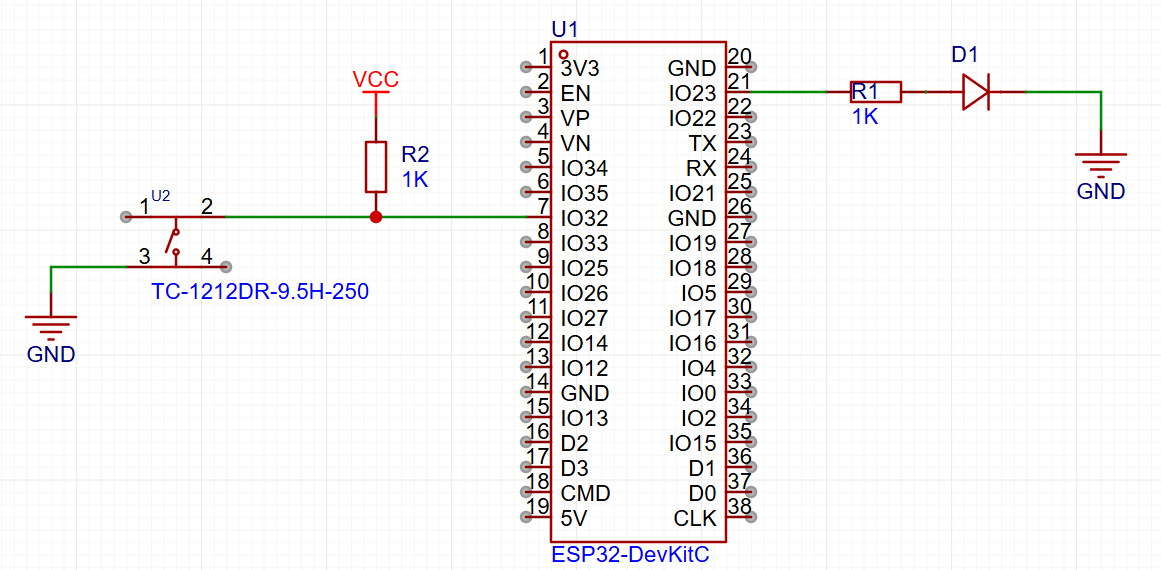
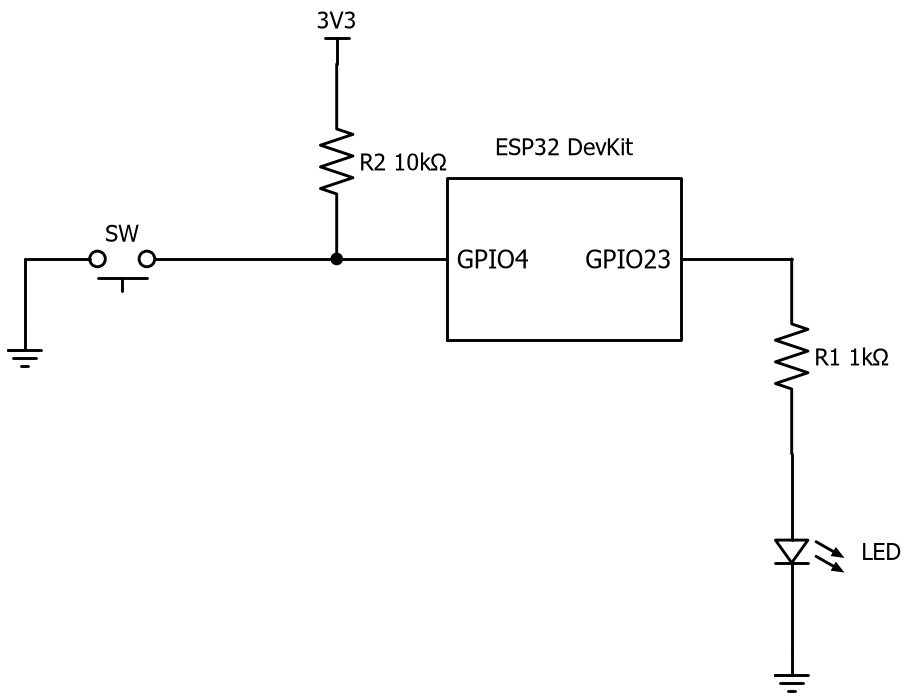
Lab 1: add the GoGo CM sheet; same pins on Wokwi and breadboard
- New "1 MCU CM board.md": the Lab 1 exercises on the GoGo Command Module
  (ESP32-S3), plus how ESP32 and ESP32-S3 differ (USB, board settings,
  GPIO6-11 flash pins, strapping pins, DAC, Bluetooth). Exercises that
  need wiring become schematic-reading questions on the CM's fixed parts.
- Wokwi and breadboard sheets: button moved from GPIO32 to GPIO4, so
  Wokwi, breadboard and CM share the button pin; LED stays on GPIO23
  (the CM's LED is on IO6, which the ESP32 cannot use).
- Breadboard sheet: pull-up stated as 10K (matches the schematics),
  "tinkerCAD" -> Arduino IDE, "ขา 23ของ Arduino" -> GPIO23 of the ESP32.
- Wokwi sheet: notes under the two screenshots that still show GPIO32;
  submission list renumbered.
- Schematics 04/07/08 and the two CM schematics are generated by
  tools/lab1_schematics.py as placeholders until redrawn in EasyEDA.

Changed region(s): [[0.0, 0.0, 1.0, 1.0]]

diff --git a/tools/lab1_schematics.py b/tools/lab1_schematics.py
@@ -1,0 +1,123 @@
+"""Generate the Lab 1 schematics (placeholders until redrawn in EasyEDA).
+
+Shared pins (decided 18 Nov 2026): kit ESP32 and Wokwi use LED = GPIO23, button = GPIO4.
+The GoGo CM (ESP32-S3) has its LED on IO6 and the big button (U6) on IO4, with R22 5.1k + C11 100nF.
+
+    python tools/lab1_schematics.py      # writes images/lab1-*.png
+"""
+import os
+import matplotlib
+matplotlib.use("Agg")
+import schemdraw
+import schemdraw.elements as elm
+
+OUT = os.path.join(os.path.dirname(__file__), "..", "images")
+schemdraw.config(fontsize=13, lw=1.6, font="Tahoma")  # Tahoma has Thai glyphs
+
+
+def esp32(d, pins, label="ESP32 DevKit", at=None, right=()):
+    """A box with the named GPIO pins (left side unless listed in `right`); returns the element."""
+    ic = elm.Ic(pins=[elm.IcPin(name=p, side="right" if p in right else "left") for p in pins],
+                edgepadW=1.6, pinspacing=1.6,
+                label=label, lblofst=0.3, lblloc="top")
+    return d.add(ic.at(at) if at is not None else ic)
+
+
+def save(d, name):
+    path = os.path.join(OUT, name)
+    d.save(path, dpi=130)
+    print("wrote", os.path.normpath(path))
+
+
+def button_circuit(d, start, r_pull, label_pull, series=None, cap=None, analyzer=False, extra=""):
+    """Pull-up button circuit ending at `start` (the GPIO pin), drawn to the left."""
+    d.move_from(start)
+    line = d.add(elm.Line().left(1.2))
+    node = line.end
+    d.add(elm.Dot())
+    # pull-up to 3V3
+    d.push()
+    d.add(elm.Resistor().up().label(label_pull, loc="bottom"))
+    d.add(elm.Vdd().label("3V3"))
+    d.pop()
+    if cap:
+        d.push()
+        d.add(elm.Line().left(1.8))
+        d.add(elm.Dot())
+        d.push()
+        d.add(elm.Capacitor().down().label(cap, loc="bottom"))
+        d.add(elm.Ground())
+        d.pop()
+        if series:
+            d.add(elm.Resistor().left().label(series))
+        d.add(elm.Button().left().label("SW"))
+        d.add(elm.Line().down(1.0))
+        d.add(elm.Ground())
+        d.pop()
+    else:
+        d.push()
+        d.add(elm.Line().left(1.8))
+        if series:
+            d.add(elm.Resistor().left().label(series))
+        d.add(elm.Button().left().label("SW"))
+        d.add(elm.Line().down(1.0))
+        d.add(elm.Ground())
+        d.pop()
+    if analyzer:
+        d.push()
+        d.add(elm.Line().down(2.4))
+        d.add(elm.Dot(open=True).label("Logic Analyzer CH0\n(GND ต่อร่วมกับวงจร)", loc="bottom"))
+        d.pop()
+    return node
+
+
+# --- Breadboard sheet ---------------------------------------------------------------
+with schemdraw.Drawing(show=False) as d:   # 04: button on GPIO4 (10k pull-up) + LED on GPIO23
+    ic = esp32(d, ["GPIO4", "GPIO23"], right=("GPIO23",))
+    button_circuit(d, ic.GPIO4, "R2\n10kΩ", "R2 10kΩ")
+    d.move_from(ic.GPIO23)
+    d.add(elm.Line().right(1.2))
+    d.add(elm.Resistor().down().label("R1 1kΩ", loc="bottom"))
+    d.add(elm.LED().down().label("LED", loc="bottom"))
+    d.add(elm.Ground())
+    save(d, "lab1-breadboard-04.png")
+
+with schemdraw.Drawing(show=False) as d:   # 07: logic analyzer on the button pin
+    ic = esp32(d, ["GPIO4"])
+    button_circuit(d, ic.GPIO4, "R2\n10kΩ", "R2 10kΩ", analyzer=True)
+    save(d, "lab1-breadboard-07.png")
+
+with schemdraw.Drawing(show=False) as d:   # 08: RC debounce (33k series + 100nF) on the button pin
+    ic = esp32(d, ["GPIO4"])
+    button_circuit(d, ic.GPIO4, "R2\n10kΩ", "R2 10kΩ", series="R3 33kΩ", cap="C1\n100nF", analyzer=True)
+    save(d, "lab1-breadboard-08.png")
+
+# --- CM sheet (on-board parts, from the EasyEDA netlist) ---------------------------
+with schemdraw.Drawing(show=False) as d:   # CM LED: IO6 -> R23 1k -> LED2 (red) -> GND
+    ic = esp32(d, ["IO6"], label="ESP32-S3 (บอร์ด CM)")
+    d.move_from(ic.IO6)
+    d.add(elm.Line().left(1.2))
+    d.add(elm.Resistor().down().label("R23 1kΩ", loc="bottom"))
+    d.add(elm.LED().down().label("LED2 (แดง)", loc="bottom"))
+    d.add(elm.Ground())
+    save(d, "lab1-cm-led.png")
+
+with schemdraw.Drawing(show=False) as d:   # CM button: R22 5.1k pull-up, C11 100nF to GND, U6 to GND, IO4
+    ic = esp32(d, ["IO4"], label="ESP32-S3 (บอร์ด CM)")
+    d.move_from(ic.IO4)
+    d.add(elm.Line().left(1.2))
+    d.add(elm.Dot())
+    d.push()
+    d.add(elm.Resistor().up().label("R22 5.1kΩ", loc="bottom"))
+    d.add(elm.Vdd().label("3V3"))
+    d.pop()
+    d.add(elm.Line().left(1.8))
+    d.add(elm.Dot())
+    d.push()
+    d.add(elm.Capacitor().down().label("C11\n100nF", loc="bottom"))
+    d.add(elm.Ground())
+    d.pop()
+    d.add(elm.Line().left(3.2))
+    d.add(elm.Button().down().label("U6\n(ปุ่มใหญ่)", loc="top", ofst=0.4))
+    d.add(elm.Ground())
+    save(d, "lab1-cm-button.png")

diff --git a/1 MCU CM board.md b/1 MCU CM board.md
@@ -1,0 +1,202 @@
+# LAB 1 - การใช้งาน Microcontroller เบื้องต้นบนบอร์ด GoGo Command Module (CM)
+
+- [บอร์ด CM ต่างจาก ESP32 ในชุด Lab อย่างไร](#บอร์ด-cm-ต่างจาก-esp32-ในชุด-lab-อย่างไร)
+  - [ESP32 กับ ESP32-S3](#esp32-กับ-esp32-s3)
+  - [ขาที่ใช้ในแต่ละแพลตฟอร์ม](#ขาที่ใช้ในแต่ละแพลตฟอร์ม)
+- [สิ่งที่ควรจะได้](#สิ่งที่ควรจะได้)
+- [การเตรียมบอร์ด CM](#การเตรียมบอร์ด-cm)
+- [LAB 1.1 — Hello World](#lab-11--hello-world)
+- [LAB 1.2 — ไฟกระพริบ](#lab-12--ไฟกระพริบ)
+- [LAB 1.3 — ควบคุมการทำงานของไฟด้วยปุ่มกด](#lab-13--ควบคุมการทำงานของไฟด้วยปุ่มกด)
+  - [1.3.1 ใช้ปุ่มควบคุม LED แบบกดติด ปล่อยดับ](#131-ใช้ปุ่มควบคุม-led-แบบกดติด-ปล่อยดับ)
+  - [1.3.2 นับจำนวนครั้งที่กดปุ่ม](#132-นับจำนวนครั้งที่กดปุ่ม)
+  - [1.3.3 Bounce และวงจร Debounce บนบอร์ด](#133-bounce-และวงจร-debounce-บนบอร์ด)
+- [ประเมินตนเอง](#ประเมินตนเอง)
+- [สิ่งที่ต้องส่ง](#สิ่งที่ต้องส่ง)
+
+ชีทนี้ทำกิจกรรมเดียวกับ [LAB 1 บน Breadboard](1%20MCU%20breadboard%20circuit.md) แต่ใช้บอร์ด GoGo Command Module (CM) ซึ่งมี LED และปุ่มกดติดตั้งอยู่บนบอร์ดแล้ว
+
+บอร์ด CM ใช้ชิป **ESP32-S3** ซึ่งเป็นคนละรุ่นกับ **ESP32** ในชุด Lab และในโครงงาน Final Project
+จุดประสงค์ของชีทนี้จึงไม่ใช่แค่ทำ Lab ให้ได้ผลเหมือนกัน แต่ให้เห็นว่า **Microcontroller ต่างรุ่นกัน แม้จะชื่อคล้ายกัน ก็มีรายละเอียดที่ต่างกัน** และต้องตรวจสอบทุกครั้งที่เปลี่ยนชิปหรือเปลี่ยนบอร์ด
+
+<!-- ภาพบอร์ด CM: รอภาพถ่ายจากผู้สอน ระบุตำแหน่ง LED2 (แดง), ปุ่มใหญ่ U6, ปุ่ม BOOT U4, สวิตช์ Power SW1 และช่อง USB-C -->
+
+## บอร์ด CM ต่างจาก ESP32 ในชุด Lab อย่างไร
+
+### ESP32 กับ ESP32-S3
+
+| | ESP32 (ชุด Lab, Wokwi, Final Project) | ESP32-S3 (บอร์ด CM) |
+|---|---|---|
+| การต่อ USB | ผ่านชิป USB-to-Serial บนบอร์ด (เช่น CP210x หรือ CH340) ต้องติดตั้ง Driver | ชิปมี USB ในตัว (Native USB) ไม่ต้องติดตั้ง Driver |
+| เลือกบอร์ดใน Arduino IDE | ESP32 Dev Module | ESP32S3 Dev Module |
+| Serial Monitor | ใช้ได้ทันที | ต้องตั้ง USB CDC On Boot เป็น Enabled |
+| ขาที่ห้ามใช้ | GPIO6–11 ต่อกับหน่วยความจำ Flash ภายในโมดูล | GPIO6–11 ใช้ได้ตามปกติ (Flash ใช้ขาชุดอื่น) |
+| Strapping pin (ขาที่มีผลตอนเปิดเครื่อง) | GPIO0, 2, 5, 12, 15 | GPIO0, 3, 45, 46 |
+| DAC (ส่งสัญญาณแอนะล็อกออก) | มี 2 ช่อง (GPIO25, 26) | ไม่มี |
+| Bluetooth | Classic และ BLE | BLE อย่างเดียว |
+
+**ตัวอย่างที่เห็นได้ชัดที่สุดคือ LED:** บนบอร์ด CM ผู้ออกแบบต่อ LED ไว้ที่ IO6 ซึ่งใช้ได้บน ESP32-S3 แต่ถ้าเขียนโปรแกรมให้ ESP32 ในชุด Lab ใช้ GPIO6 โปรแกรมจะไปรบกวนการอ่าน Flash และบอร์ดจะทำงานผิดพลาด ชุด Lab จึงใช้ GPIO23 แทน
+
+### ขาที่ใช้ในแต่ละแพลตฟอร์ม
+
+| | Wokwi | Breadboard (ESP32) | บอร์ด CM (ESP32-S3) |
+|---|---|---|---|
+| LED | GPIO23 | GPIO23 | **IO6** — LED2 สีแดง ต่อผ่าน R23 1kΩ บนบอร์ด |
+| ปุ่มกด | GPIO4 | GPIO4 | IO4 — ปุ่มใหญ่ U6 บนบอร์ด |
+| ตัวต้านทาน Pull-up | ต่อเอง (หรือใช้ Internal Pull-up) | ต่อเอง 10kΩ | R22 5.1kΩ บนบอร์ด |
+| วงจร Debounce | จำลองด้วยตัวเลือก Bounce ของปุ่ม | ต่อเองใน LAB 1.3.3 (33kΩ + 100nF) | C11 100nF บนบอร์ด |
+
+โปรแกรมทุกข้อในชีทนี้เหมือนกับชีท Breadboard ยกเว้นบรรทัด `#define LED`
+
+## สิ่งที่ควรจะได้
+
+- ตั้งค่า Arduino IDE ให้ใช้กับ ESP32-S3 ได้ และอธิบายได้ว่าทำไมต้องตั้งต่างจาก ESP32
+- เขียนโปรแกรมควบคุม LED และอ่านปุ่มกดบนบอร์ดที่มีวงจรสำเร็จรูป
+- อ่านวงจร Pull-up และวงจร Debounce จาก Schematic ของบอร์ด และคำนวณค่าคงที่เวลา (Time constant) ได้
+- อธิบายได้ว่าขาที่ใช้ได้ขึ้นกับรุ่นของชิป และต้องตรวจสอบจาก Datasheet ทุกครั้ง
+
+## การเตรียมบอร์ด CM
+
+1. ต่อสาย USB-C จากคอมพิวเตอร์เข้ากับบอร์ด CM แล้วเปิดสวิตช์ Power บนบอร์ด
+2. เปิด Arduino IDE (ติดตั้งส่วนขยาย ESP32 ตาม[คู่มือการเตรียมอุปกรณ์และโปรแกรม](1%20MCU%20Setup.md) — **ไม่ต้องติดตั้ง Driver CP210x** สำหรับบอร์ดนี้)
+3. ตั้งค่าที่เมนู Tools:
+   - Board: **ESP32S3 Dev Module**
+   - USB CDC On Boot: **Enabled** — ถ้าไม่ตั้งค่านี้ ข้อความจาก `Serial` จะไม่ออกทาง USB และ Serial Monitor จะว่างเปล่า
+   - Flash Size: **8MB**
+   - PSRAM: **QSPI PSRAM**
+   - Port: เลือก Port ของบอร์ด
+4. **ถ้าอัปโหลดโปรแกรมไม่สำเร็จ หรือหา Port ไม่เจอ:** บอร์ด CM ไม่มีปุ่ม Reset ให้เข้าโหมดอัปโหลดเอง โดย
+   - กดปุ่ม BOOT (ปุ่มเล็ก U4) ค้างไว้
+   - ปิดแล้วเปิดสวิตช์ Power
+   - ปล่อยปุ่ม BOOT แล้วกดอัปโหลดอีกครั้ง
+   - เมื่ออัปโหลดเสร็จ ให้ปิดแล้วเปิดสวิตช์ Power เพื่อเริ่มโปรแกรม
+
+## LAB 1.1 — Hello World
+
+ใช้โปรแกรมเดียวกับชีท Breadboard
+
+```cpp
+void setup() {
+  Serial.begin(9600);  // start serial communication
+}
+
+void loop() {
+  Serial.println("Hello World!");
+  delay(1000);  // wait 1000 ms
+}
+```
+
+อัปโหลดโปรแกรม แล้วเปิด Serial Monitor ควรเห็นข้อความ “Hello World!” ทุก 1 วินาที
+
+**คำถาม:** ใน ESP32-S3 ที่ใช้ Native USB ค่า 9600 ใน `Serial.begin(9600)` ยังมีความหมายอยู่หรือไม่ ลองเปลี่ยน Baud rate ใน Serial Monitor เป็นค่าอื่นแล้วสังเกตผล เทียบกับบอร์ด ESP32 ในชุด Lab
+
+## LAB 1.2 — ไฟกระพริบ
+
+LED บนบอร์ด CM ต่ออยู่ที่ IO6 ผ่านตัวต้านทาน R23 1kΩ — ไม่ต้องต่อวงจรเพิ่ม
+
+![วงจร LED บนบอร์ด CM](images/lab1-cm-led.png)
+
+```cpp
+#define LED  6          // ESP32 ในชุด Lab ใช้ 23
+#define DELAY_TIME  1000
+
+void setup() {
+  pinMode(LED, OUTPUT);
+}
+
+void loop() {
+  digitalWrite(LED, HIGH);   // turn the LED on
+  delay(DELAY_TIME);
+  digitalWrite(LED, LOW);    // turn the LED off
+  delay(DELAY_TIME);
+}
+```
+
+**คำถาม:**
+
+- ถ้านำโปรแกรมนี้ (LED = 6) ไปใช้กับบอร์ด ESP32 ในชุด Lab จะเกิดอะไรขึ้น เพราะอะไร (ให้ตอบจากตารางเปรียบเทียบด้านบน ไม่ต้องทดลองจริง)
+- ขา IO6 ของบอร์ด CM ไม่มีจุดต่อออกมาภายนอก ถ้าต้องการวัดสัญญาณด้วย Logic Analyzer จะทำได้อย่างไร
+
+**(ทางเลือก) วัดสัญญาณด้วย Logic Analyzer:** ให้โปรแกรมส่งสัญญาณเดียวกันออกอีกขาหนึ่งที่มีช่องต่อ เช่น IO15 ซึ่งต่อกับช่อง Servo 1 (Grove สีเหลือง) แล้วต่อสายสัญญาณ (สีเหลือง) และ GND (สีดำ) ของช่องนั้นเข้ากับ Logic Analyzer **ห้ามต่อสายสีแดง** ซึ่งเป็นไฟเลี้ยง Servo
+
+```cpp
+#define PROBE  15   // ช่อง Servo 1 (Grove สีเหลือง)
+// ใน setup():  pinMode(PROBE, OUTPUT);
+// ใน loop() ให้สั่ง digitalWrite(PROBE, ...) คู่กับ digitalWrite(LED, ...) ทุกครั้ง
+```
+
+## LAB 1.3 — ควบคุมการทำงานของไฟด้วยปุ่มกด
+
+### 1.3.1 ใช้ปุ่มควบคุม LED แบบกดติด ปล่อยดับ
+
+ปุ่มใหญ่ U6 ต่ออยู่ที่ IO4 พร้อมตัวต้านทาน Pull-up R22 5.1kΩ และตัวเก็บประจุ C11 100nF บนบอร์ด
+
+![วงจรปุ่มกดบนบอร์ด CM](images/lab1-cm-button.png)
+
+```cpp
+#define LED     6
+#define BUTTON  4
+
+void setup() {
+  pinMode(BUTTON, INPUT);   // บอร์ดมี Pull-up (R22) อยู่แล้ว
+  pinMode(LED, OUTPUT);
+}
+
+void loop() {
+  if (digitalRead(BUTTON) == LOW) {
+    digitalWrite(LED, HIGH);
+  } else {
+    digitalWrite(LED, LOW);
+  }
+}
+```
+
+**อ่านวงจรจาก Schematic** (บนบอร์ด CM ต่อวงจรเองไม่ได้ จึงต้องอ่านวงจรแทน):
+
+- ชี้ตำแหน่ง R22 ในวงจร และอธิบายว่าทำไมเมื่อไม่กดปุ่ม IO4 จึงอ่านได้ HIGH และเมื่อกดจึงอ่านได้ LOW
+- **Internal Pull-up:** ถ้าเปลี่ยนเป็น `pinMode(BUTTON, INPUT_PULLUP);` ผลจะเปลี่ยนหรือไม่ เพราะอะไร และทำไมผู้ออกแบบบอร์ดยังใส่ R22 ไว้ ทั้งที่ชิปมี Internal Pull-up
+- **Pull-down:** ถ้าต้องการเปลี่ยนวงจรนี้เป็นแบบ Pull-down ต้องย้าย R22 และต่อปุ่มอย่างไร และต้องแก้โปรแกรมตรงไหน (วาดวงจรประกอบคำตอบ)
+
+### 1.3.2 นับจำนวนครั้งที่กดปุ่ม
+
+เหมือนชีท Breadboard: ต่อยอดโปรแกรมเดิมให้นับเพิ่ม 1 ทุกครั้งที่กดปุ่ม และพิมพ์ค่าออกทาง Serial Monitor
+ต้องนับแค่ครั้งเดียวต่อการกดหนึ่งครั้ง แม้จะกดปุ่มค้างไว้
+
+### 1.3.3 Bounce และวงจร Debounce บนบอร์ด
+
+ในชีท Breadboard นักศึกษาต้องต่อวงจร Debounce (R3 33kΩ และ C1 100nF) เพิ่มเอง แต่บอร์ด CM มีวงจรนี้ในตัวแล้ว คือ R22 และ C11
+
+1. คำนวณค่าคงที่เวลา τ = R × C ของวงจรบนบอร์ด CM (R22 5.1kΩ, C11 100nF) และของวงจรในชีท Breadboard (R3 33kΩ, C1 100nF)
+2. วงจรทั้งสองต่างกันอย่างไร: บนบอร์ด CM เมื่อกดปุ่ม ตัวเก็บประจุ C11 คายประจุผ่านปุ่มโดยตรง ส่วนเมื่อปล่อยปุ่ม C11 อัดประจุผ่าน R22 ให้อธิบายว่าวงจรนี้ช่วยลด Bounce ได้อย่างไร
+3. ใช้โปรแกรมนับจำนวนครั้งจาก 1.3.2 กดปุ่ม 20 ครั้ง แล้วดูว่าโปรแกรมนับได้กี่ครั้ง เทียบกับผลการทดลอง Bounce ใน Wokwi หรือ Breadboard
+4. (ทางเลือก) ใช้วิธีส่งสัญญาณออกขา IO15 แบบใน LAB 1.2 เพื่อดูสถานะปุ่มที่โปรแกรมอ่านได้ใน Logic Analyzer — สังเกตว่าวิธีนี้แสดงค่าที่**โปรแกรมอ่านได้** ไม่ใช่แรงดันจริงที่ขา IO4
+
+## ประเมินตนเอง
+
+- ตั้งค่า Arduino IDE สำหรับ ESP32-S3 ได้ และอธิบายได้ว่าทำไมต้องเปิด USB CDC On Boot
+- อธิบายได้ว่าทำไมบอร์ด CM ใช้ LED ที่ IO6 ได้ แต่ ESP32 ในชุด Lab ใช้ GPIO6 ไม่ได้
+- โปรแกรมนับจำนวนครั้งทำงานถูกต้อง ไม่นับรัวเวลากดปุ่มค้าง
+- อ่าน Schematic แล้วชี้ได้ว่าส่วนใดเป็น Pull-up และส่วนใดเป็นวงจร Debounce พร้อมคำนวณ τ ได้
+- เปรียบเทียบได้ว่าการต่อวงจรเองบน Breadboard กับการใช้บอร์ดสำเร็จรูป มีข้อดีข้อเสียอย่างไร
+
+## สิ่งที่ต้องส่ง
+
+1. LAB 1.1 — ภาพหน้าจอ Serial Monitor แสดง “Hello World!” และคำตอบเรื่อง Baud rate
+2. LAB 1.2 — วิดีโอสั้นหรือภาพ LED กระพริบ และคำตอบทั้งสองข้อ (ถ้าทำทางเลือก ส่งภาพจาก Logic Analyzer ด้วย)
+3. LAB 1.3.1 — คำตอบจากการอ่านวงจร (Pull-up, Internal Pull-up, Pull-down พร้อมภาพวาดวงจร)
+4. LAB 1.3.2 — โค้ด และภาพหน้าจอ Serial Monitor แสดงการนับ
+5. LAB 1.3.3 — ค่า τ ของทั้งสองวงจร คำอธิบายการทำงานของวงจร Debounce และผลการกดปุ่ม 20 ครั้ง
+
+## สัญญาอนุญาต (License)
+
+![CC BY-SA](https://licensebuttons.net/l/by-sa/4.0/88x31.png)
+
+ผลงานนี้เผยแพร่ภายใต้สัญญาอนุญาต  
+**Creative Commons Attribution–ShareAlike 4.0 International (CC BY-SA 4.0)**  
+อนุญาตให้นำไปใช้ แก้ไข และเผยแพร่ต่อได้ โดยต้องระบุที่มา  
+และเผยแพร่ภายใต้สัญญาอนุญาตเดียวกัน
+
+โดย  
+อ.ดร.อานันท์ สีห์พิทักษ์เกียรติ  
+ภาควิชาวิศวกรรมคอมพิวเตอร์ คณะวิศวกรรมศาสตร์  
+มหาวิทยาลัยเชียงใหม่

diff --git a/1 MCU breadboard circuit.md b/1 MCU breadboard circuit.md
@@ -38,7 +38,8 @@
 ## เครื่องมือที่ต้องใช้
 
 - ในปฏิบัติการนี้จะใช้โมดูล ESP32 เป็นเครื่องมือ และเขียนโปรแกรมด้วย Arduino IDE
-- ขอให้ศึกษา[คู่มือรายการอุปกรณ์และโปรแกรมที่ต้องใช้](1%20MCU%20Setup.md)ก่อนทดลองทำหัวข้อต่อไปนี้
+- ขอให้ศึกษา[คู่มือรายการอุปกรณ์และโปรแกรมที่ต้องใช้](1%20MCU%20Setup.md)
+- **ขาที่ใช้:** LED = GPIO23, ปุ่มกด = GPIO4 — ใช้ขาเดียวกันทั้งใน Wokwi และวงจรบน Breadboard ส่วนบอร์ด CM (ESP32-S3) ใช้ LED = IO6 ดูเหตุผลใน[ชีทบอร์ด CM](1%20MCU%20CM%20board.md)ก่อนทดลองทำหัวข้อต่อไปนี้
 
 ## LAB 1.1 — Hello World
 
@@ -80,7 +81,7 @@ void loop() {
 
 โปรแกรมในระบบ Arduino จะมีฟังก์ชันหลักที่ต้องมีขั้นต่ำ 2 ตัวคือ Setup() ซึ่งจะทำงานครั้งเดียวเมื่อจ่ายไฟให้กับวงจร เหมาะใส่คำสั่งที่ตั้งค่าการทำงาน ส่วน loop() จะทำงานวนซ้ำไปเรื่อย ๆ มีไว้ใส่คำสั่งการทำงานของโปรแกรม
 
-ในตัวอย่างข้างต้น คำสั่ง Serial.begin(9600) เป็นการเปิดใช้ Serial Port บน MCU โดยตั้งค่าความเร็วในการสื่อสารเป็น 9600 bps (bits per seconds) และคำสั่ง serial.println() ทำการพิมพ์ข้อความออกมาทาง Serial Port ซึ่งสามารถสังเกตุค่าได้ผ่านทาง Serial Monitor ของ tinkerCAD
+ในตัวอย่างข้างต้น คำสั่ง Serial.begin(9600) เป็นการเปิดใช้ Serial Port บน MCU โดยตั้งค่าความเร็วในการสื่อสารเป็น 9600 bps (bits per seconds) และคำสั่ง serial.println() ทำการพิมพ์ข้อความออกมาทาง Serial Port ซึ่งสามารถสังเกตุค่าได้ผ่านทาง Serial Monitor ของ Arduino IDE
 
 ### ประเมินตนเอง
 
@@ -89,7 +90,7 @@ void loop() {
 
 ## LAB 1.2 — ไฟกระพริบ
 
-ขอให้นักศึกษาต่อวงจรไฟ LED เข้ากับขา 23ของ Arduino ตามตัวอย่างต่อไปนี้
+ขอให้นักศึกษาต่อวงจรไฟ LED เข้ากับขา GPIO23 ของ ESP32 ตามตัวอย่างต่อไปนี้
 
 ขั้นตอนอย่างย่อ
 
@@ -156,11 +157,11 @@ void loop() {
 
 ### 1.3.1 ใช้ปุ่มควบคุม LED แบบกดติด ปล่อยดับ
 
-ให้เพิ่มปุ่มกด (push button) เข้าไปในวงจร โดยต่อเข้ากับ Pin GPIO32 (ถ้าอยากใช้ GPIO อื่นต้องตรวจ Datasheet GPIO นั้น ๆ ใช้งานได้ตามที่ต้องการหรือไม่) โดยขา Input นี้จะใช้วงจรแบบ “Pull-up” กับตัวต้านทานขนาด 3.3K Ohms
+ให้เพิ่มปุ่มกด (push button) เข้าไปในวงจร โดยต่อเข้ากับ Pin GPIO4 (ถ้าอยากใช้ GPIO อื่นต้องตรวจ Datasheet GPIO นั้น ๆ ใช้งานได้ตามที่ต้องการหรือไม่) โดยขา Input นี้จะใช้วงจรแบบ “Pull-up” กับตัวต้านทานขนาด 10K Ohms
 
-![ภาพแสดงวงจรทั้งฝั่ง Input ปุ่มกด (ฝั่งซ้ายต่อกับขา IO32) และฝั่ง Output LED (ฝั่งขวาต่อกับ IO23)](images/lab1-breadboard-04.png)
+![ภาพแสดงวงจรทั้งฝั่ง Input ปุ่มกด (ฝั่งซ้ายต่อกับขา IO4) และฝั่ง Output LED (ฝั่งขวาต่อกับ IO23)](images/lab1-breadboard-04.png)
 
-*ภาพแสดงวงจรทั้งฝั่ง Input ปุ่มกด (ฝั่งซ้ายต่อกับขา IO32) และฝั่ง Output LED (ฝั่งขวาต่อกับ IO23)*
+*ภาพแสดงวงจรทั้งฝั่ง Input ปุ่มกด (ฝั่งซ้ายต่อกับขา IO4) และฝั่ง Output LED (ฝั่งขวาต่อกับ IO23)*
 
 สังเกตุว่าปุ่มกดเป็นอุปกรณ์ 4 ขา ซึ่งมีการเชื่อมต่อภายในดังนี้
 
@@ -174,7 +175,7 @@ void loop() {
 
 ```cpp
 #define LED     23
-#define BUTTON  32
+#define BUTTON  4
 
 void setup() {
   pinMode(BUTTON, INPUT); // set arduino pin to input mode
@@ -190,7 +191,7 @@ void loop() {
 
 โปรแกรมข้างต้นจะเปิด LED เมื่อมีการกดปุ่ม โดยมีการทำงานดังนี้
 
-- pinMode(BUTTON, INPUT) ทำการตั้งค่า pin 34 ให้เป็น input
+- pinMode(BUTTON, INPUT) ทำการตั้งค่า pin 4 ให้เป็น input
 - digitalRead() อ่านสถานะของ pin ค่าที่ได้คือ HIGH หรือ LOW
 
 #### ทำโปรแกรมต่อให้สมบูรณ์
@@ -199,7 +200,7 @@ void loop() {
 
 #### ทำความเข้าใจวงจร Pull-up และ Internal Pull-up
 
-**Pull-up Resistor** — เป็นวงจรที่ทำให้สถานะของ pin 32 เป็น high เวลาที่ปุ่มไม่ถูกกด หากไม่มีตัวต้านทานนี้ จะทำให้สถานะของ pin 32 แกว่งระหว่าง high-low ได้ และทำให้เกิดพฤติกรรมที่ไม่พึงประสงค์ขึ้นได้** Internal Pull-up** — ESP32 มี internal pull-up resistor มาให้กับ GPIO บางขา (ดู Datasheet ประกอบ) ซึ่งช่วยให้กำจัดตัวต้านทาน pull-up ที่ใช้อยู่ได้ ซึ่งขา GPIO 32 ที่ใช้ข้างต้นสนับสนุนความสามารถนี้ โดยจะต้องเปลี่ยนการประกาศ pinMode ให้เป็นดังนี้
+**Pull-up Resistor** — เป็นวงจรที่ทำให้สถานะของ pin 4 เป็น high เวลาที่ปุ่มไม่ถูกกด หากไม่มีตัวต้านทานนี้ จะทำให้สถานะของ pin 4 แกว่งระหว่าง high-low ได้ และทำให้เกิดพฤติกรรมที่ไม่พึงประสงค์ขึ้นได้** Internal Pull-up** — ESP32 มี internal pull-up resistor มาให้กับ GPIO บางขา (ดู Datasheet ประกอบ) ซึ่งช่วยให้กำจัดตัวต้านทาน pull-up ที่ใช้อยู่ได้ ซึ่งขา GPIO 4 ที่ใช้ข้างต้นสนับสนุนความสามารถนี้ โดยจะต้องเปลี่ยนการประกาศ pinMode ให้เป็นดังนี้
 
 ```cpp
 pinMode(BUTTON, INPUT_PULLUP);
